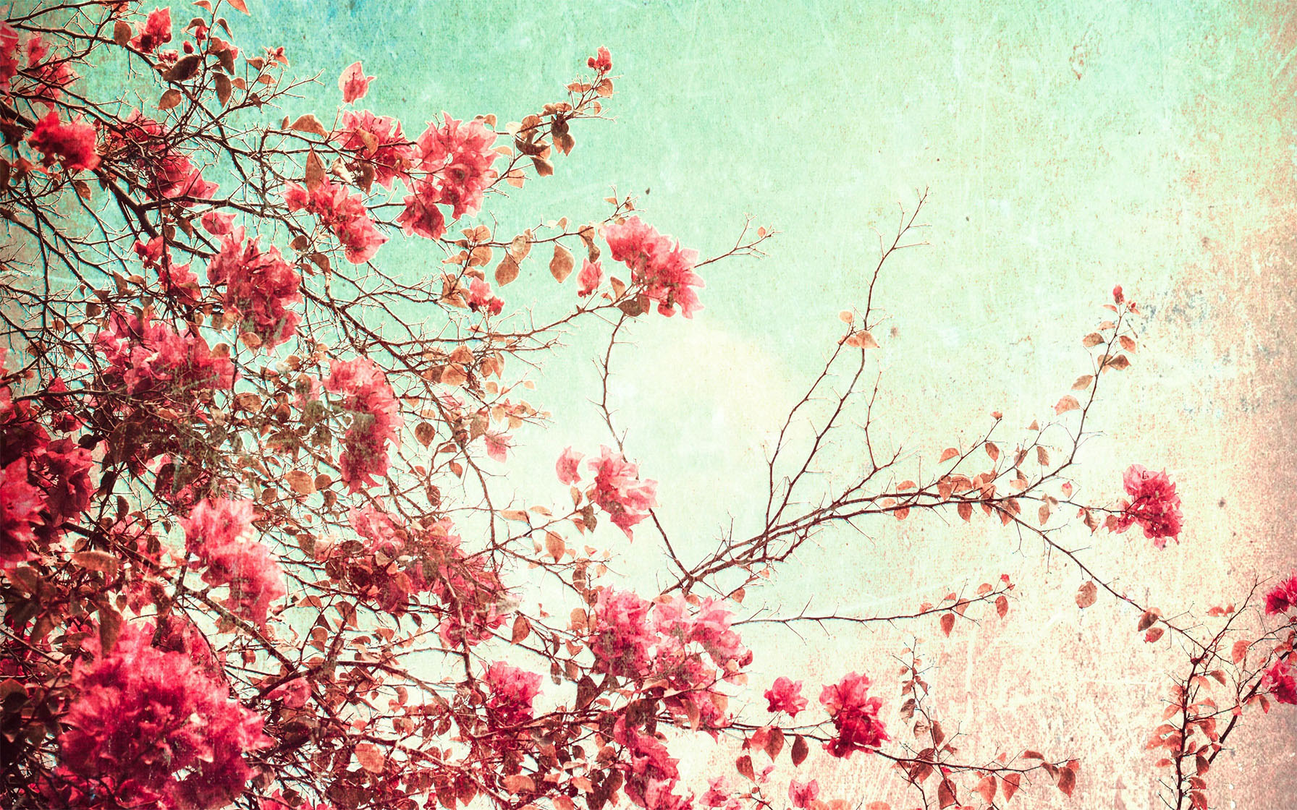
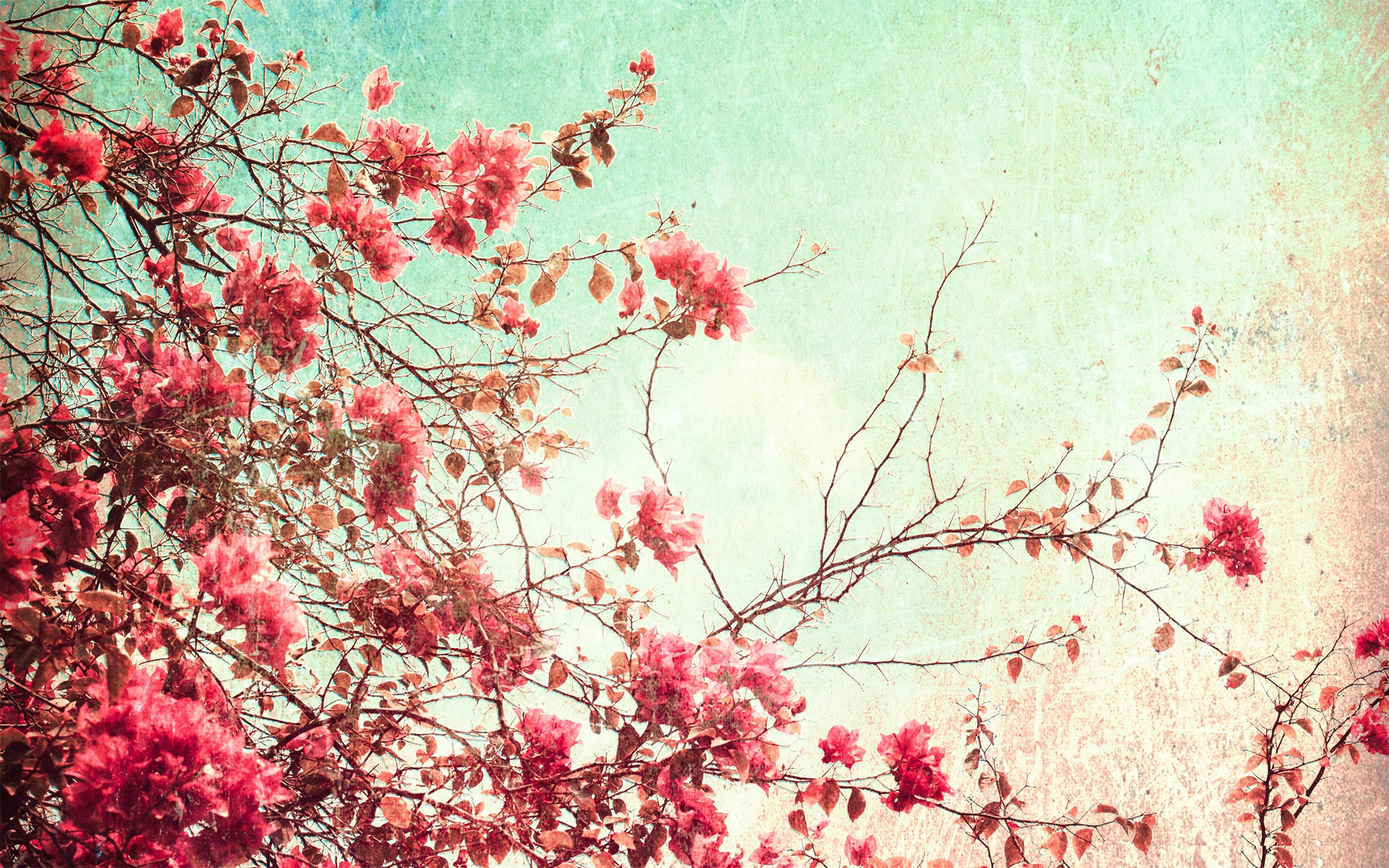
Alterando tamanho da imagem de background do showcase para 100para que não duplique em resoluções muito altas

diff --git a/site/css/style1025.css b/site/css/style1025.css
@@ -8,6 +8,11 @@
 	}
 
 	/*==================================================================
+	.showcase
+	====================================================================*/
+	.showcase {background-size: 100%;}
+
+	/*==================================================================
 	.aboutUs
 	====================================================================*/
 	#aboutUs {padding: 40px 0;}

diff --git a/site/css/style.css b/site/css/style.css
@@ -257,6 +257,7 @@ global
 	display: block;
 	margin: 20px;
 }
+
 #mainFooter li .fa {
 	font-size: 22pt;
 	color: #d6dad8;
